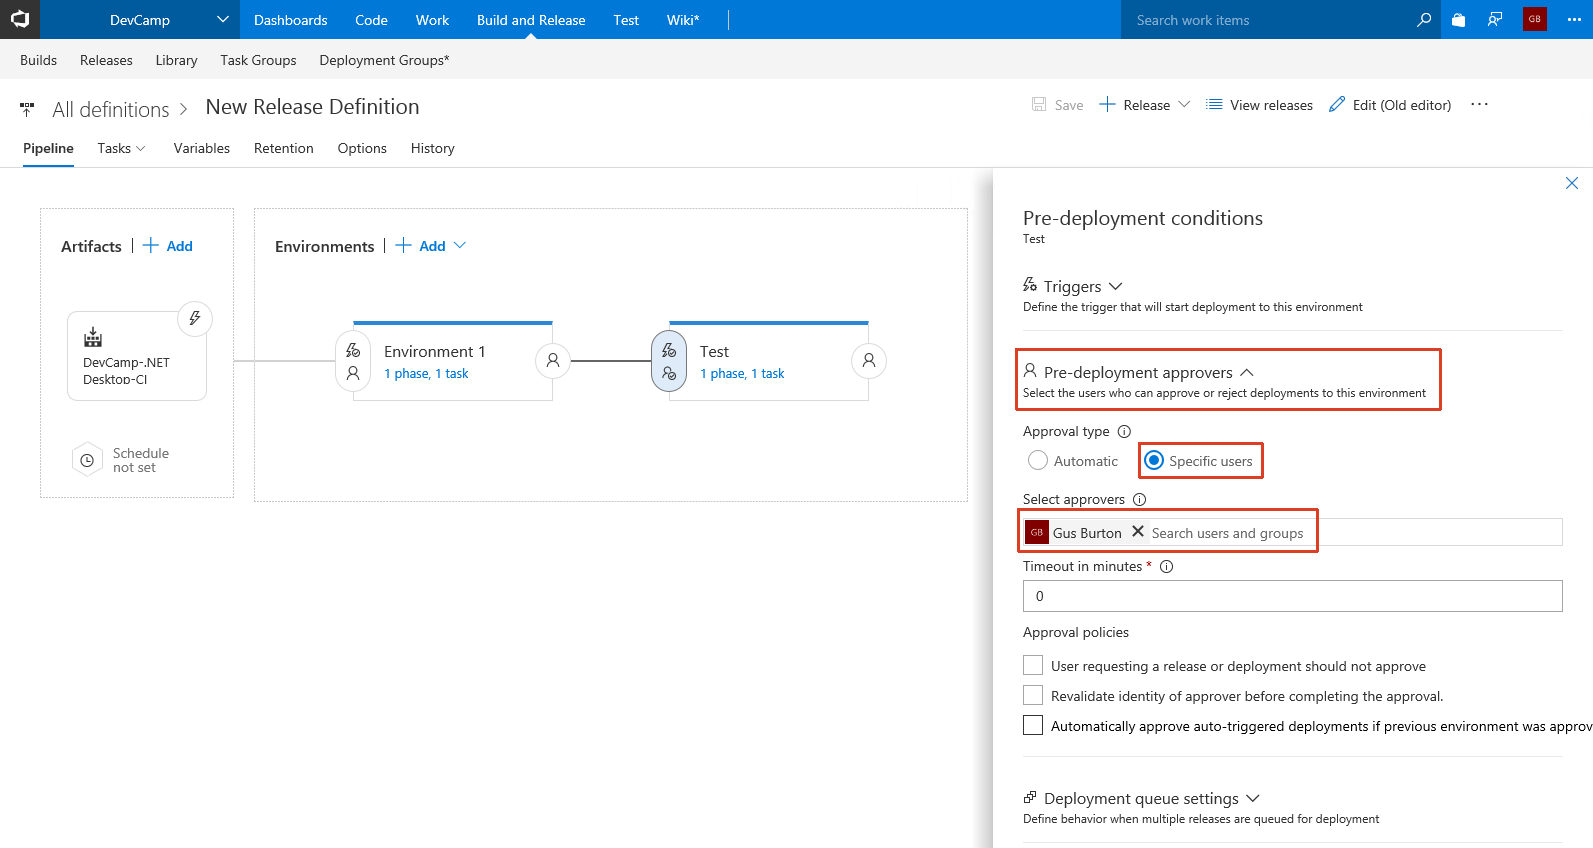
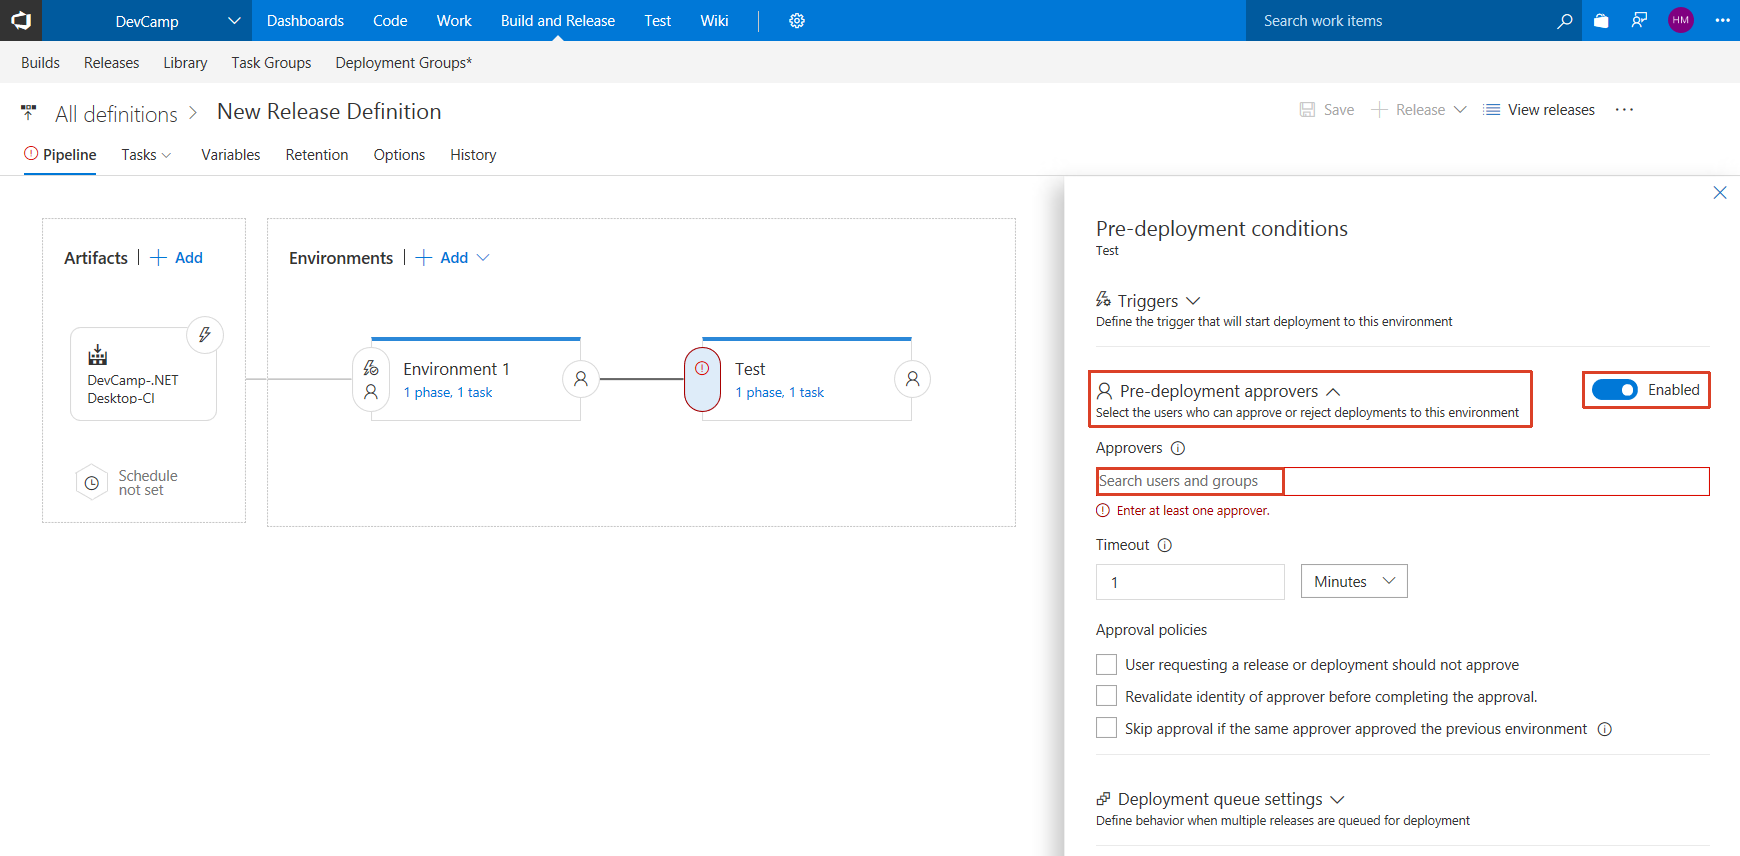
Updated HOL 5 pre-deployment approvers screenshot

diff --git a/HOL/dotnet/05-arm-cd/README.md b/HOL/dotnet/05-arm-cd/README.md
@@ -167,7 +167,7 @@ The resource group is now holding our "Test" environment web app and has been ad
 
     ![image](./media/2017-06-23_10_34_00.png)
 
-    For the `Pre-deployment approvers` option, select `Specific users` and enter your account name. Then click the `Save` button:
+    For the `Pre-deployment approvers` option, enter your account name. Then click the `Save` button:
 
     ![image](./media/2017-11-01_13_01_00.png)
 
